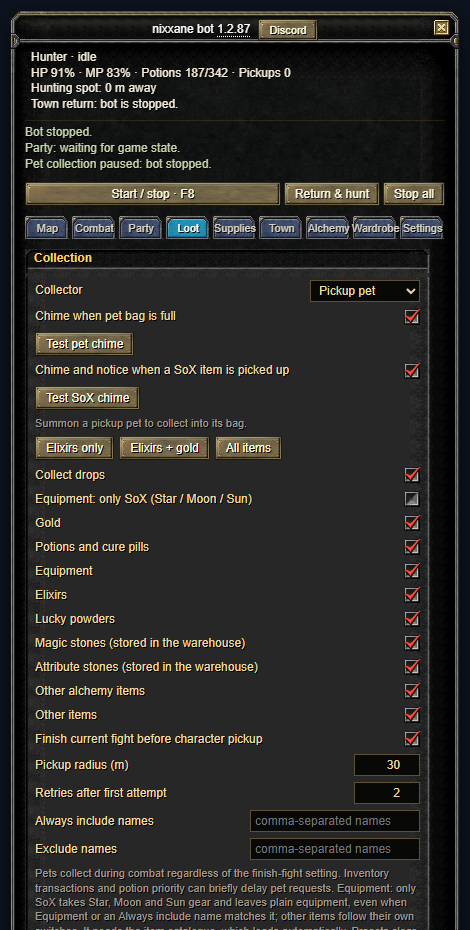
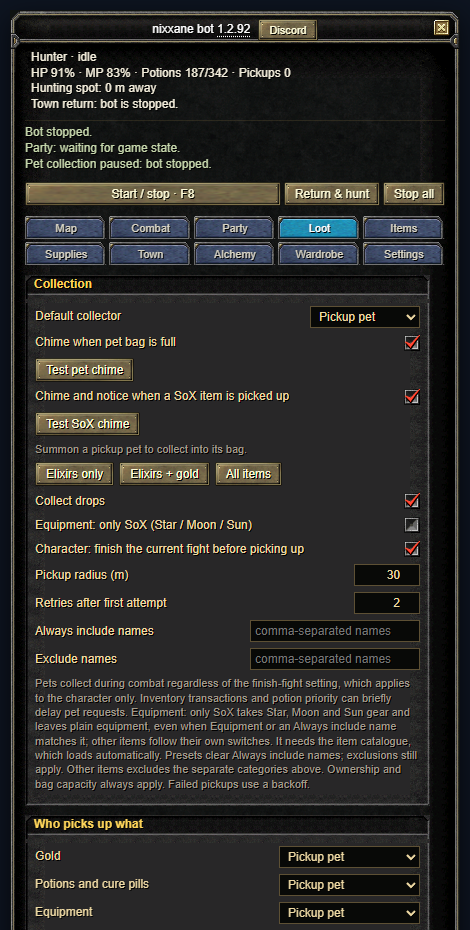
1.2.92 patch notes, loot guide

Changed region(s): [[0.0298, 0.2183, 0.9532, 1.0]]

diff --git a/guide.html b/guide.html
@@ -48,7 +48,7 @@
     <img class="shot" src="guide/06-potions.png" width="470" alt="Supplies, Automatic potion use: potion switches and thresholds, vigor thresholds, cure pills, pet recovery kits, then the Potion restock section.">
 
     <h3>Step 5: loot</h3>
-    <p>Open the <strong>Loot</strong> tab. Choose what to collect and who collects it: your character, or a pickup pet (see <a href="#pet">Pet loot</a>). The three buttons (Elixirs only, Elixirs + gold, All items) are quick presets. <strong>Always include names</strong> and <strong>Exclude names</strong> take comma-separated words.</p>
+    <p>Open the <strong>Loot</strong> tab. Under <strong>Who picks up what</strong>, set every kind of drop to <strong>Leave on the ground</strong>, <strong>Pickup pet</strong> or <strong>Character</strong>, so the pet and the character can work side by side (see <a href="#pet">Pet loot</a>). The three buttons (Elixirs only, Elixirs + gold, All items) are quick presets. <strong>Always include names</strong> and <strong>Exclude names</strong> take comma-separated words.</p>
     <img class="shot" src="guide/05-loot.png" width="470" alt="The Loot tab: collector, chime settings, preset buttons, item category checkboxes and name filters.">
 
     <h3>Step 6: start</h3>
@@ -85,7 +85,7 @@
     <h2 id="pet">4. Pet loot</h2>
     <ol>
       <li>Summon your pickup pet in the game.</li>
-      <li>In <strong>Loot</strong>, set <strong>Collector</strong> to <strong>Pickup pet</strong>, and choose what to collect.</li>
+      <li>In <strong>Loot</strong>, set <strong>Default collector</strong> to <strong>Pickup pet</strong>, and under <strong>Who picks up what</strong> choose what the pet collects and what the character takes.</li>
       <li>Turn the <strong>pet bag full chime</strong> on if you want to hear when its bag fills (use <strong>Test pet chime</strong> once so your browser allows sound).</li>
     </ol>
     <p>The pet collects while you fight. The status line shows what it is doing.</p>
@@ -126,7 +126,7 @@
         <tr><td>No walkable route found</td><td>Save that service point again from open ground a few steps in front of the NPC.</td></tr>
         <tr><td>Blocked route (no progress for 20 s)</td><td>Something is in the way. Check the character is not stuck behind another player or object.</td></tr>
         <tr><td>Hunting: searching for an eligible target. Monsters in view: 5. Skipped: …</td><td>The bot sees monsters but may not attack them. The line says why: the monster type is switched off, the level is outside your limits, a name filter, too far (raise Hunt radius or Chase distance), or another player is fighting it. "No monsters in view" means you are in the wrong place: stand where monsters are and press Set hunting spot here.</td></tr>
-        <tr><td>Pet ready; waiting for eligible drops. Drops in view: 4, ready to collect: 1. Not collected: …</td><td>The pet is fine but some drops are skipped. The line says why: the item type is switched off in Loot, too far from you (raise Pickup radius), outside the hunting area, owned by another player, or the pet bag is full. "Finish current fight" does not affect the pet.</td></tr>
+        <tr><td>Pet ready; waiting for eligible drops. Drops in view: 4, ready to collect: 1. Not collected: …</td><td>The pet is fine but some drops are skipped. The line says why, and names the item kinds that are switched off, for example "not wanted by your Loot settings (30 equipment, 22 other items)": the item type is switched off in Loot, too far from you (raise Pickup radius), outside the hunting area, owned by another player, or the pet bag is full. "Finish current fight" does not affect the pet.</td></tr>
         <tr><td>Combat: normal attack (1 cooling down, not enough MP, …)</td><td>The reason a rotation skill was not used. "Paused after a server rejection" clears by itself within seconds.</td></tr>
         <tr><td>Party join blocked: not the leader / party full / request expired</td><td>Auto-accept only works while you lead the party or are solo, the party has room, and the application is still open.</td></tr>
         <tr><td>The login is gone</td><td>The server restarted and the saved login expired. Log in and enter your character; the bot resumes.</td></tr>

diff --git a/index.html b/index.html
@@ -26,6 +26,14 @@
       <h2 id="patch-notes-title">Patch notes</h2>
       <p class="notes-intro">Install the latest script, then reload the game. Reporting-service fixes apply automatically.</p>
       <article class="release">
+        <h3><a href="https://github.com/nixxane/opensro-bot-lean/commit/997e4c2cd8804c766d7602abb5acdf59cdffae5f">1.2.92</a> · The pet and the character can each pick up their own items</h3>
+        <ul>
+          <li>Loot has a new section, Who picks up what: every kind of drop is set to Leave on the ground, Pickup pet or Character. The pet can collect elixirs and equipment while the character takes the potions and pills it wants on itself.</li>
+          <li>The status line for a pet that is not picking up now names the item kinds that are switched off, for example 52 not wanted (30 equipment, 22 other items), instead of a general list of possible reasons.</li>
+          <li>The old Collector setting is now Default collector and still decides for anything you do not set yourself.</li>
+        </ul>
+      </article>
+      <article class="release">
         <h3><a href="https://github.com/nixxane/opensro-bot-lean/commit/08f07c2a1d54b60ce5f450e3a2b01c01bf00eeda">1.2.91</a> · Walks around trees and walls while chasing</h3>
         <ul>
           <li>A character that stood still against a tree or wall while chasing a mob used to stay there until the no-damage timeout dropped the mob. After 2.5 seconds without moving or hurting its target, the bot now checks the game's collision data and, if the straight line is blocked, walks around the obstacle, then attacks as normal.</li>
